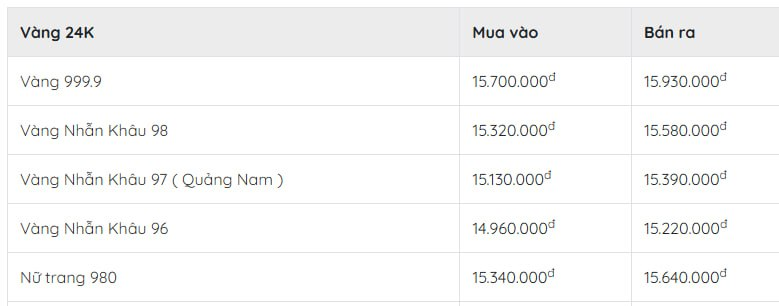
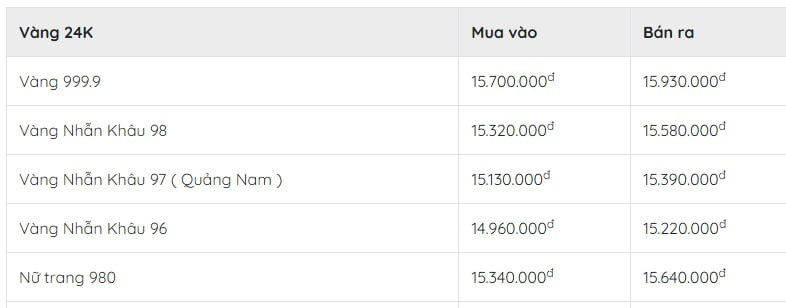
Update kim-khanh-viet-hung price image (08:37)

diff --git a/app/data/goldShops.ts b/app/data/goldShops.ts
@@ -26,7 +26,7 @@ export const GOLD_SHOPS: GoldShop[] = [
     name: "Kim Khánh Việt Hùng",
     location: "Đà Nẵng",
     image: "images/kim-khanh-viet-hung.jpg",
-    updatedAt: "08:11",
+    updatedAt: "08:37",
   },
   {
     id: "tru-cam-le",
